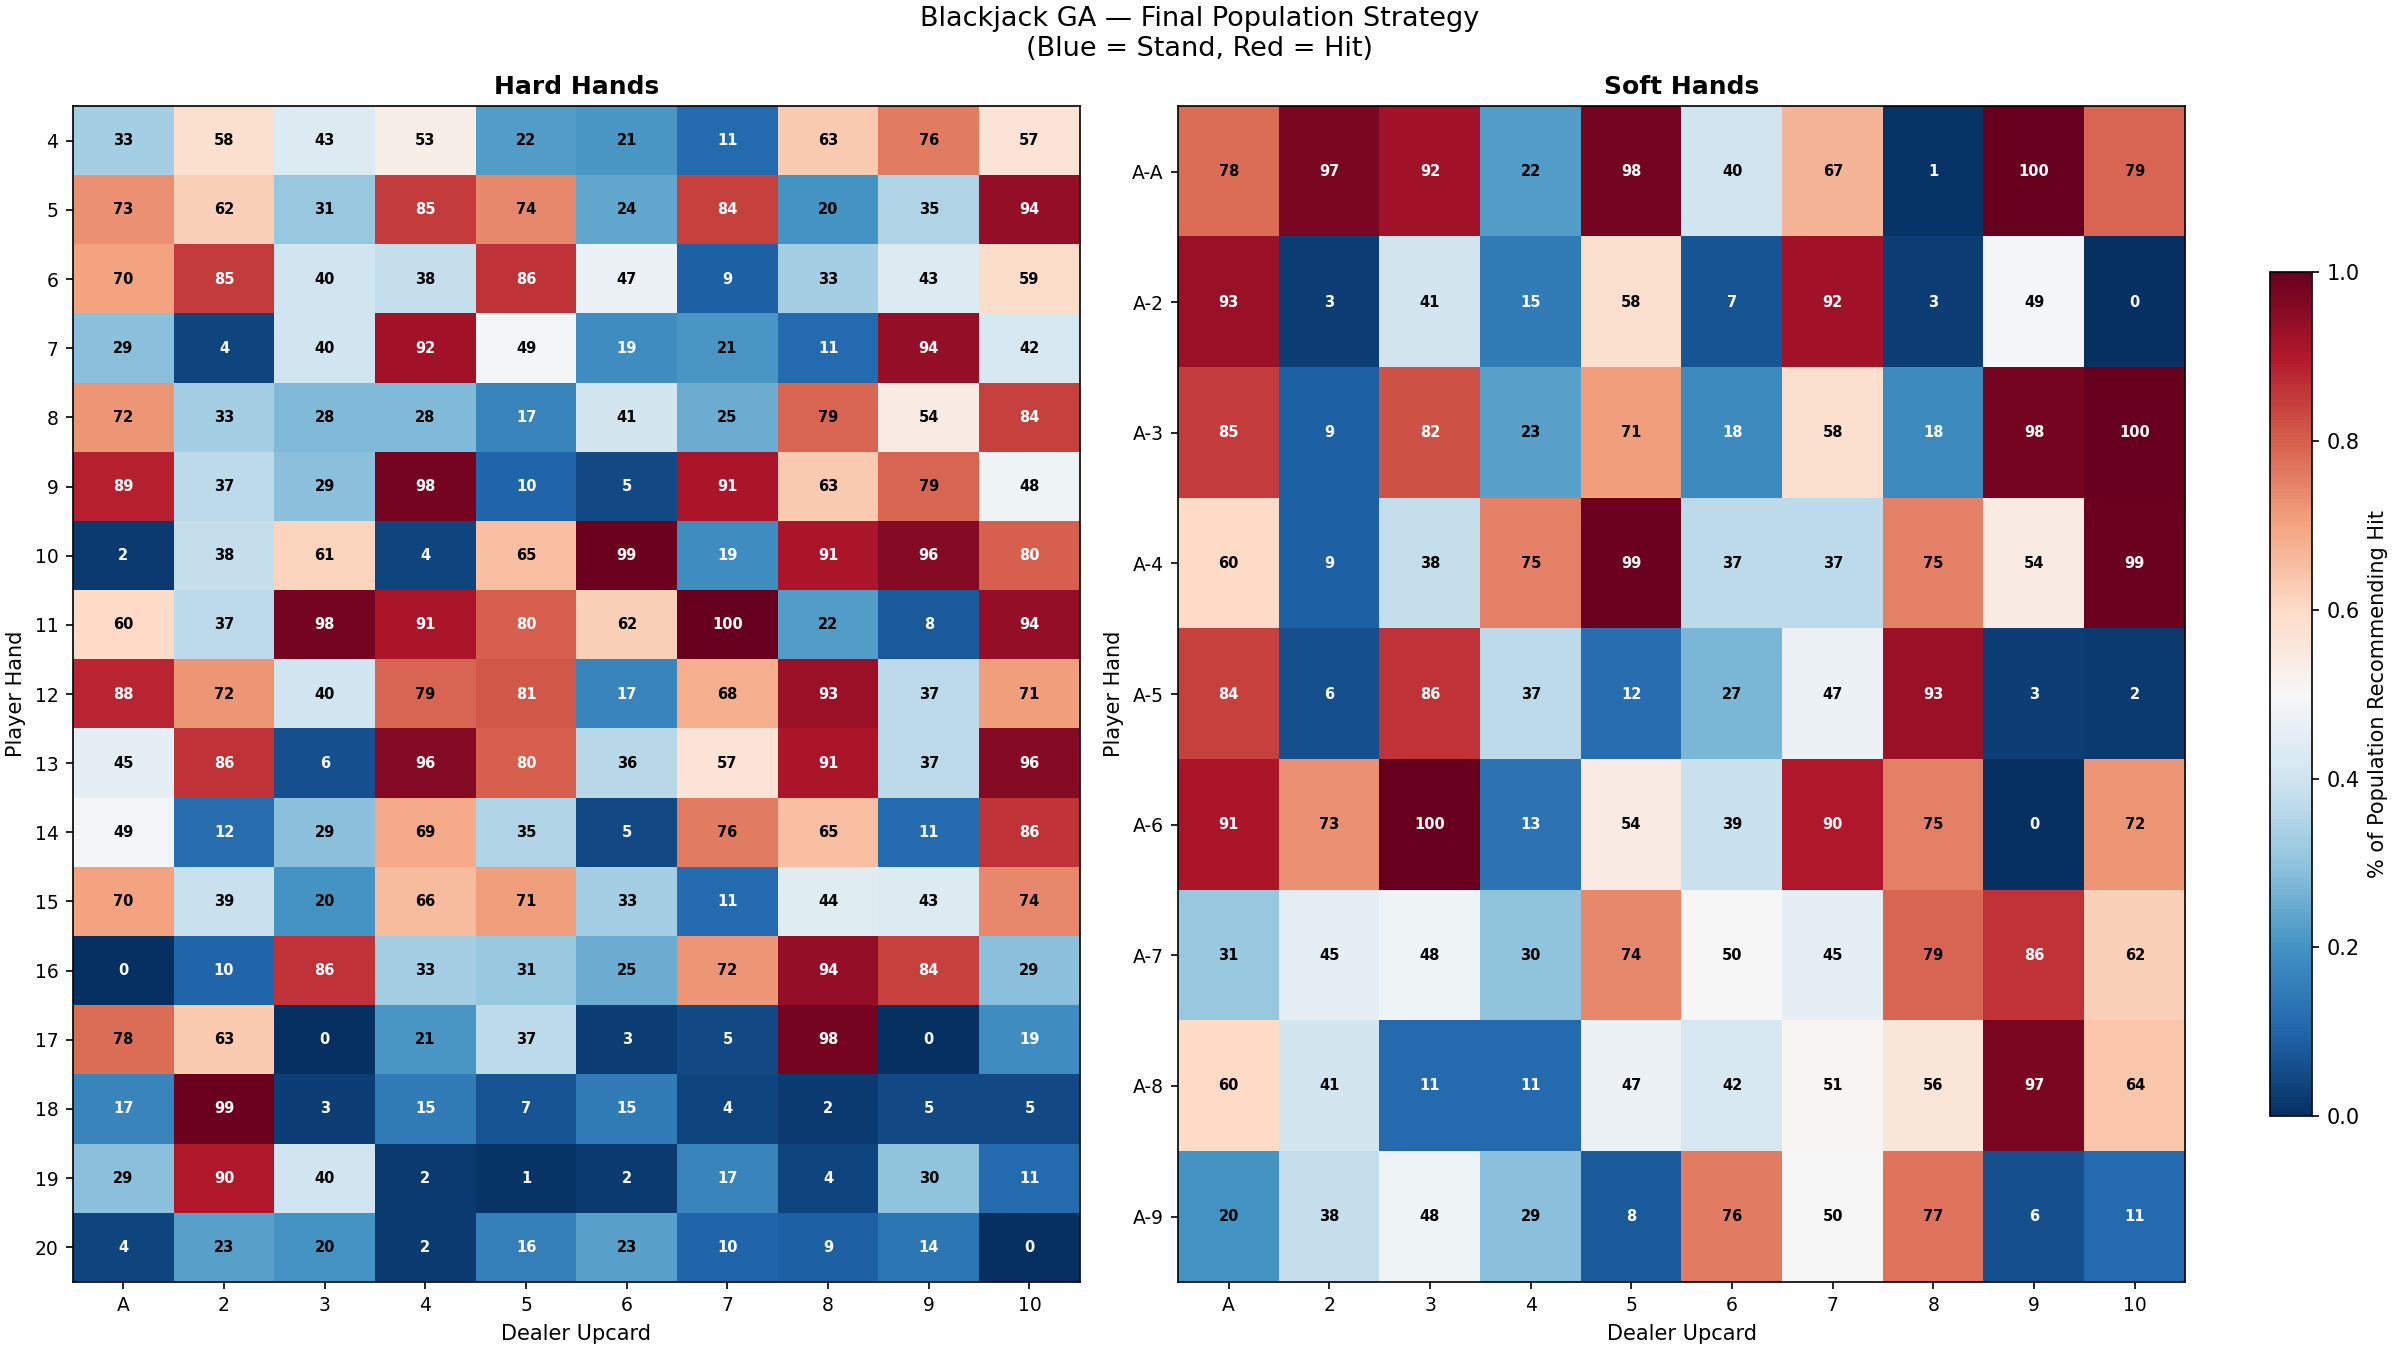
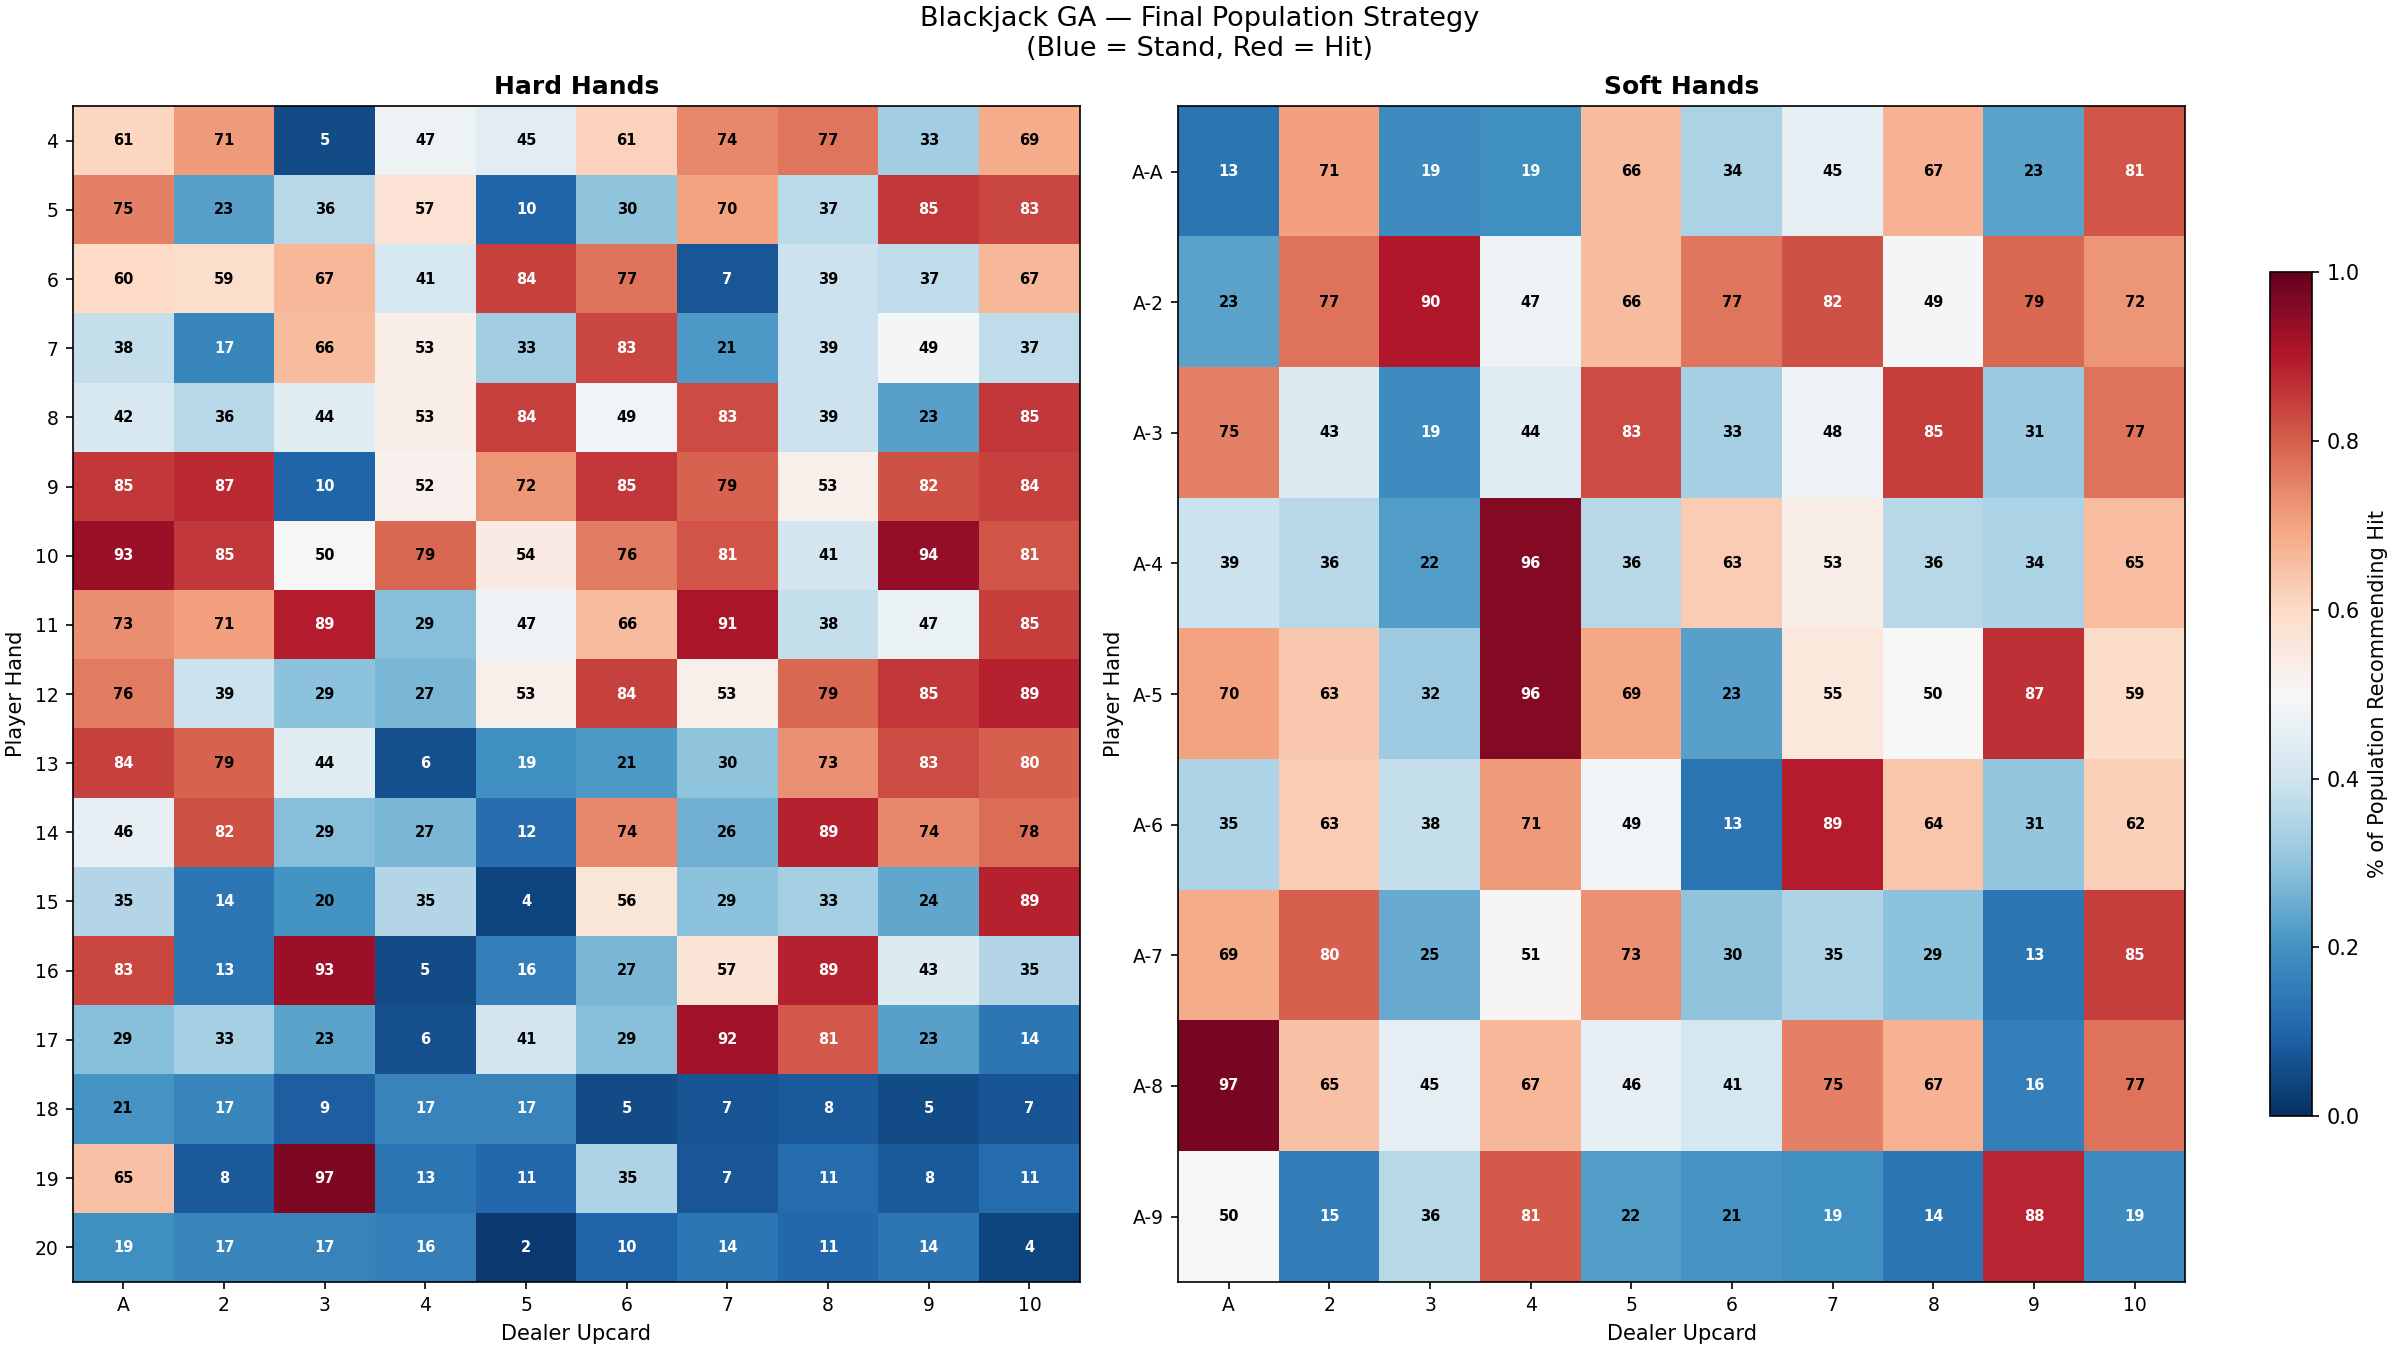
Tune GA parameters to improve mean/median fitness into 0.40-0.45 range
- Increase POP_SIZE 100→150, GENERATIONS 100→150, N_HANDS 1000→5000
- Increase MUTATION_RATE 0.005→0.01
- Expand elitism from top 2 to top 5
- Final generation: mean=0.4206, median=0.4224, best=0.4517

diff --git a/blackjack_ga.py b/blackjack_ga.py
@@ -211,10 +211,10 @@ def chromosome_from_strategy(strategy_fn):
 # Phase 4 — Genetic Algorithm
 # ---------------------------------------------------------------------------
 
-POP_SIZE      = 100
-GENERATIONS   = 100
-N_HANDS       = 1000
-MUTATION_RATE = 0.005
+POP_SIZE      = 150
+GENERATIONS   = 150
+N_HANDS       = 5000
+MUTATION_RATE = 0.01
 
 
 def crossover(p1, p2):
@@ -265,8 +265,8 @@ def run_ga(pop_size=POP_SIZE, generations=GENERATIONS,
         weights = [f for f, _ in ranked]
         chroms  = [c for _, c in ranked]
 
-        # Elitism: top 2 advance unchanged
-        next_gen = [chroms[0], chroms[1]]
+        # Elitism: top 5 advance unchanged
+        next_gen = chroms[:5]
 
         # Fill the rest via roulette wheel selection, crossover, mutation
         while len(next_gen) < pop_size:
